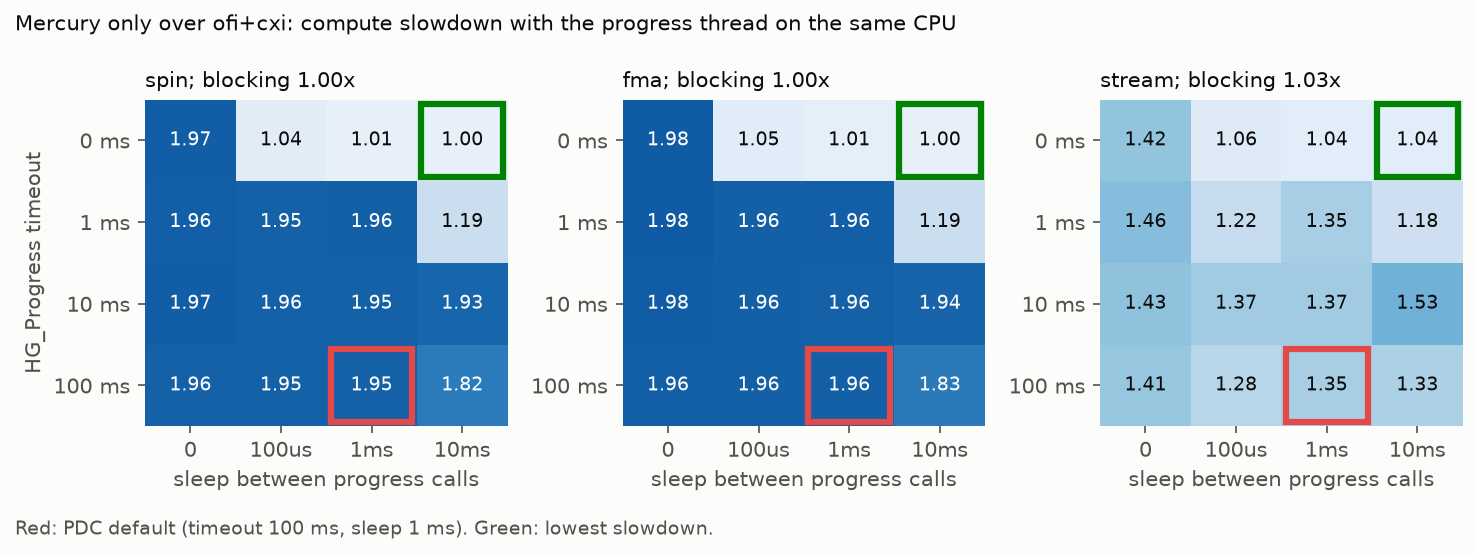
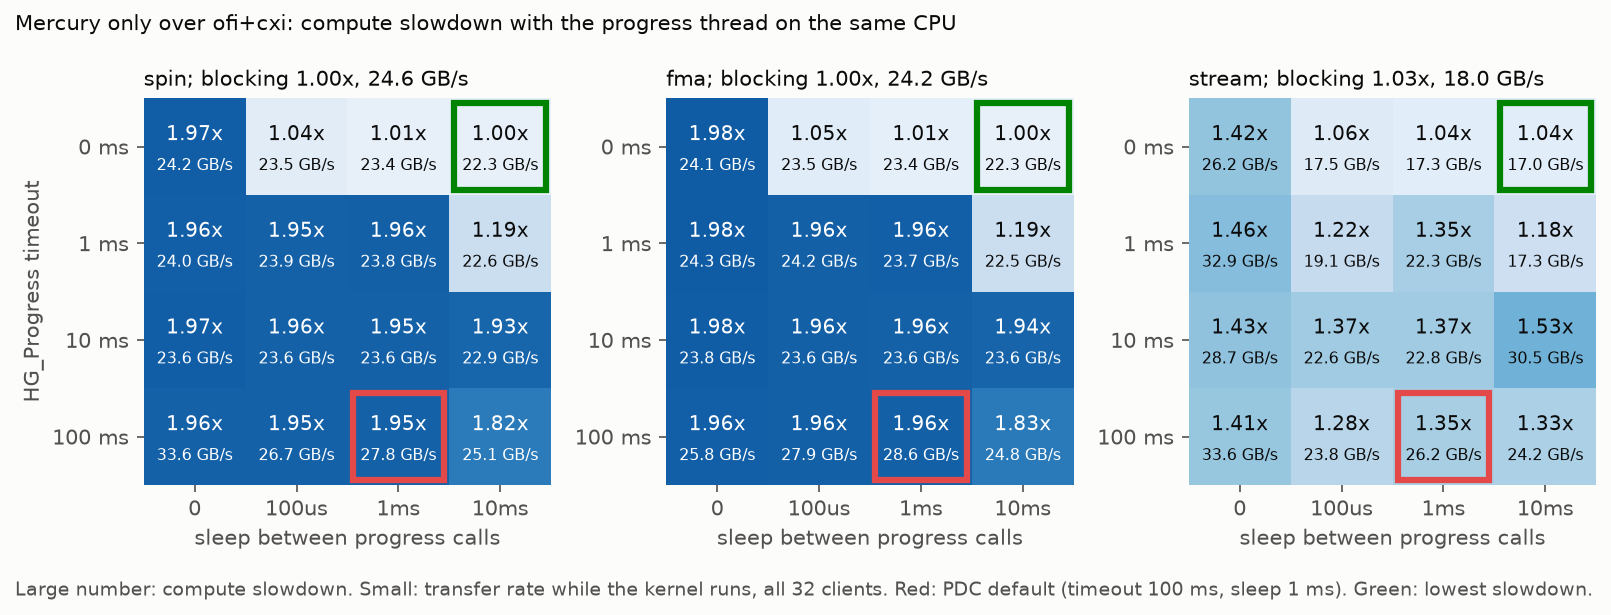
Show transfer rate in Perlmutter knobs grid

diff --git a/analysis/perlmutter/plots.py b/analysis/perlmutter/plots.py
@@ -156,16 +156,25 @@ if os.path.exists(kpath):
     for r in csv.DictReader(open(kpath)):
         g[(r["placement"], r["kernel"], int(r["blocking"]), int(r["timeout_ms"]), int(r["sleep_us"]))].append(r)
     timeouts, sleeps = [0, 1, 10, 100], [0, 100, 1000, 10000]
+
+    def knob_rate(rs):
+        """GB/s while the kernel runs: all ranks' bytes per step / forward-to-callback time."""
+        v = [float(r["nranks"]) * float(r["mib"]) * (1 << 20) / 1e9 / float(r["t_xfer"]) for r in rs]
+        return median(v) if v else None
+
     kerns = [k for k in ("spin", "fma", "stream") if any(key[1] == k for key in g)]
-    fig, axs = plt.subplots(1, len(kerns), figsize=(3.3 * len(kerns), 3.4), squeeze=False)
+    fig, axs = plt.subplots(1, len(kerns), figsize=(3.6 * len(kerns), 3.8), squeeze=False)
     for ax, k in zip(axs[0], kerns):
         m = [[median(float(r["slowdown"]) for r in g[("shared", k, 0, t, s)]) if ("shared", k, 0, t, s) in g else float("nan")
               for s in sleeps] for t in timeouts]
         ax.imshow(m, cmap="Blues", vmin=0.9, vmax=2.2, aspect="auto")
         for i, row in enumerate(m):
             for j, v in enumerate(row):
-                ax.text(j, i, f"{v:.2f}", ha="center", va="center", fontsize=9,
-                        color="white" if v > 1.6 else INK)
+                ink = "white" if v > 1.6 else INK
+                ax.text(j, i - 0.12, f"{v:.2f}x", ha="center", va="center", fontsize=9.5, color=ink)
+                r = knob_rate(g.get(("shared", k, 0, timeouts[i], sleeps[j]), []))
+                if r is not None:
+                    ax.text(j, i + 0.2, f"{r:.1f} GB/s", ha="center", va="center", fontsize=7.5, color=ink)
         cells = [(i, j) for i in range(4) for j in range(4) if m[i][j] == m[i][j]]
         best = min(cells, key=lambda c: m[c[0]][c[1]])
         for (i, j), col in ((best, BEST), ((timeouts.index(DEFAULT[0]), sleeps.index(DEFAULT[1])), HL)):
@@ -177,12 +186,13 @@ if os.path.exists(kpath):
         for s in ax.spines.values():
             s.set_visible(False)
         b = g.get(("shared", k, 1, 100, 1000))
-        tag = f"; blocking {median(float(r['slowdown']) for r in b):.2f}x" if b else ""
+        tag = f"; blocking {median(float(r['slowdown']) for r in b):.2f}x, {knob_rate(b):.1f} GB/s" if b else ""
         ax.set_title(f"{k}{tag}", loc="left", fontsize=10)
     axs[0][0].set_ylabel("HG_Progress timeout")
     fig.suptitle("Mercury only over ofi+cxi: compute slowdown with the progress thread on the same CPU",
                  x=0.01, ha="left", fontsize=10)
     fig.tight_layout()
-    fig.text(0.01, -0.04, "Red: PDC default (timeout 100 ms, sleep 1 ms). Green: lowest slowdown.",
+    fig.text(0.01, -0.04, "Large number: compute slowdown. Small: transfer rate while the kernel runs, all 32 clients. "
+             "Red: PDC default (timeout 100 ms, sleep 1 ms). Green: lowest slowdown.",
              ha="left", fontsize=9, color=INK2)
     save(fig, "5_knobs_grid.png")
